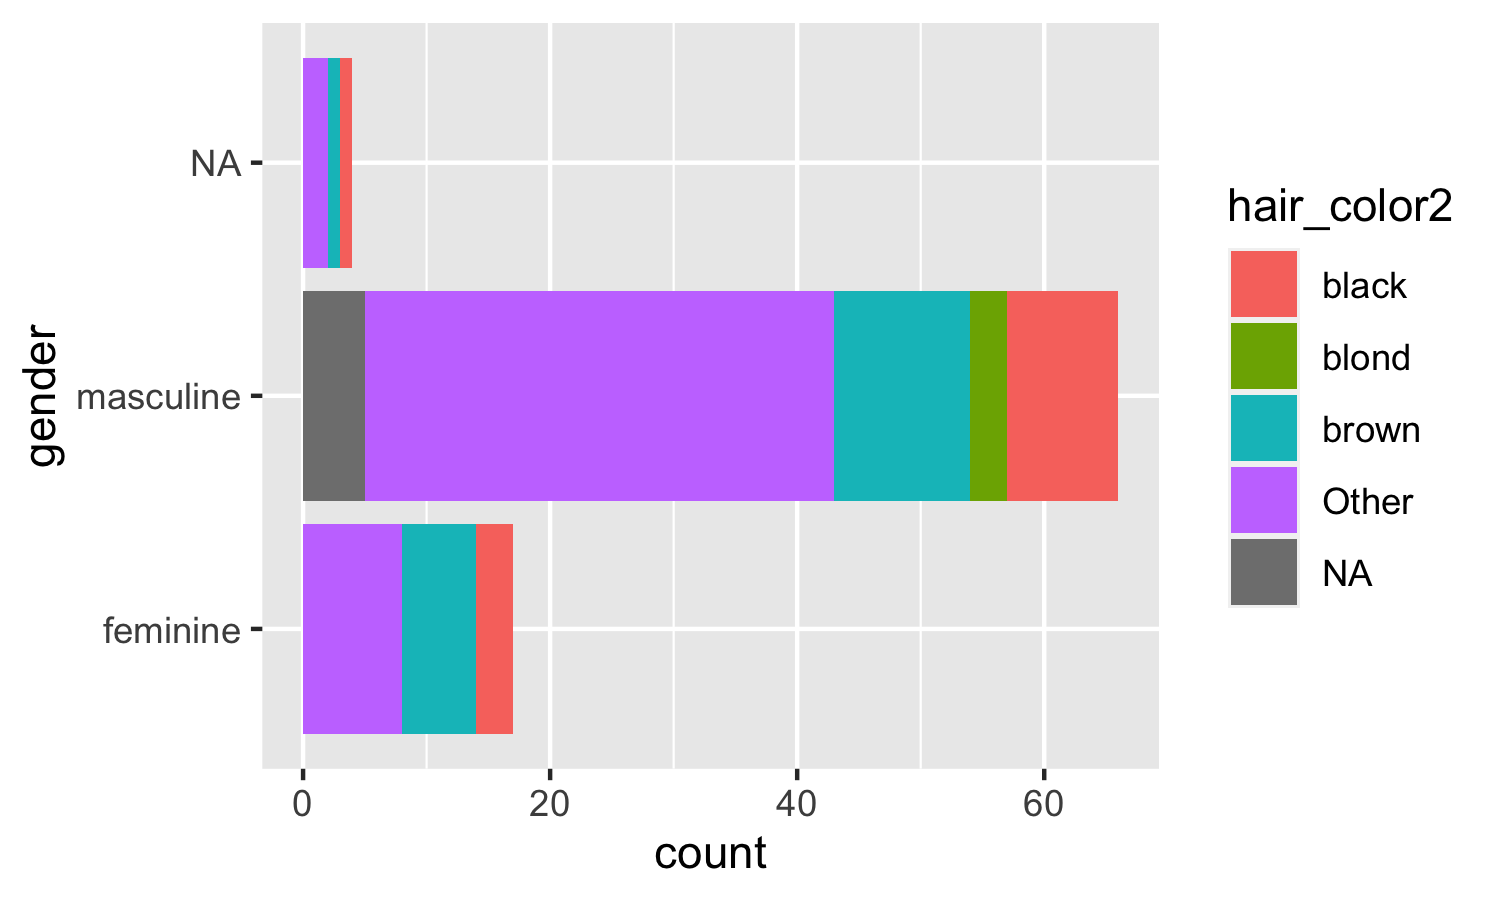
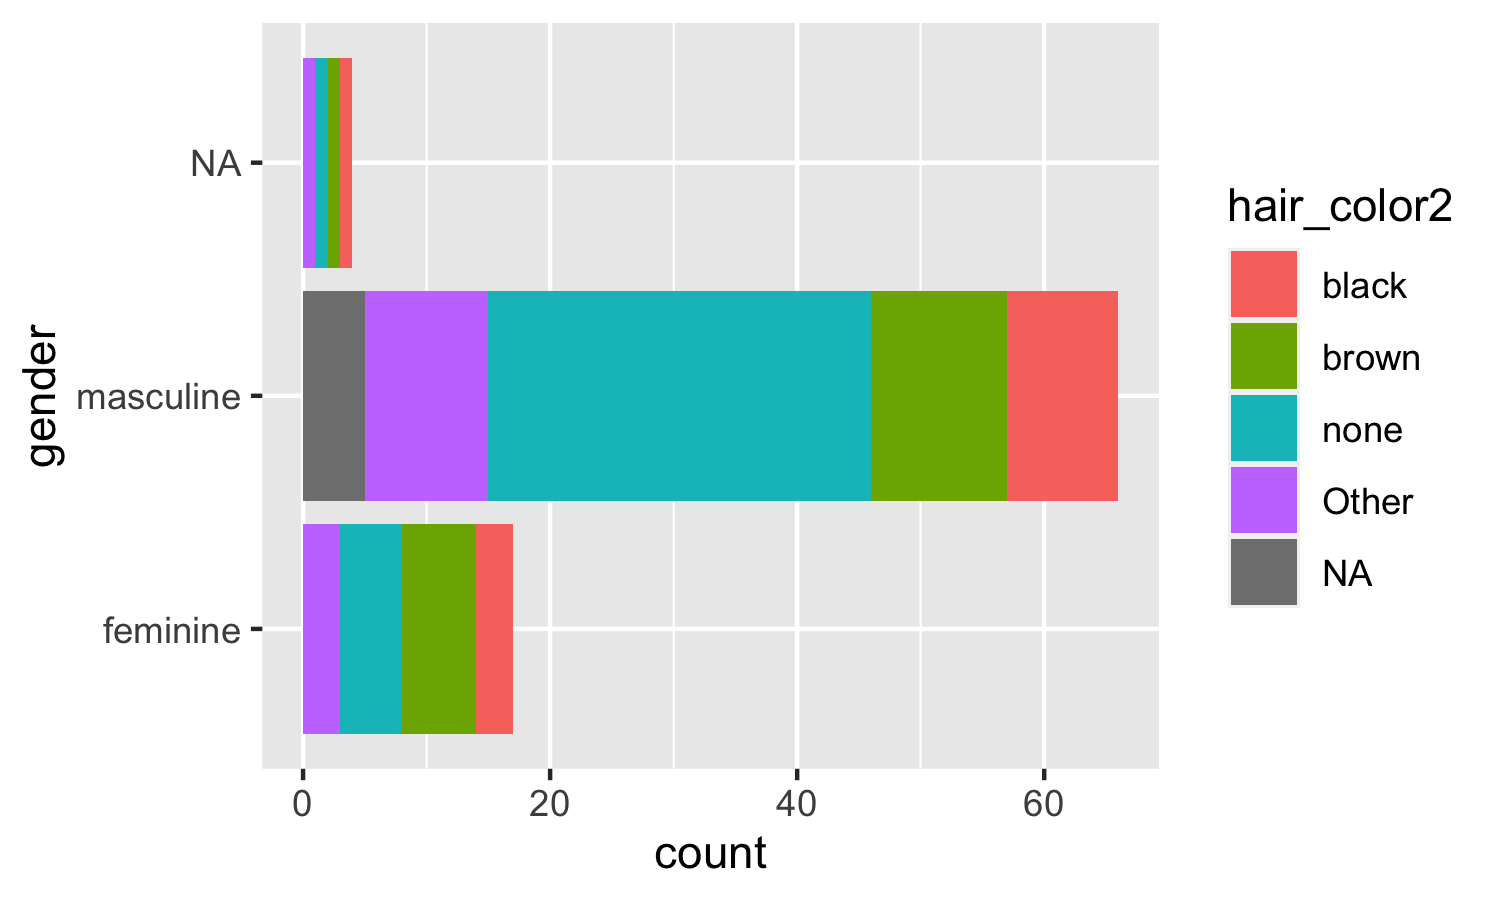
fct_lump_min

diff --git a/slides/02-visualize-data/02-visualize-data.html b/slides/02-visualize-data/02-visualize-data.html
@@ -166,7 +166,7 @@ class: middle
 
 
 ```
-## # A tibble: 87 x 14
+## # A tibble: 87 x 15
 ##    name  height  mass hair_color skin_color eye_color birth_year sex   gender homeworld
 ##    &lt;chr&gt;  &lt;int&gt; &lt;dbl&gt; &lt;chr&gt;      &lt;chr&gt;      &lt;chr&gt;          &lt;dbl&gt; &lt;chr&gt; &lt;chr&gt;  &lt;chr&gt;    
 ##  1 Luke…    172    77 blond      fair       blue            19   male  mascu… Tatooine 
@@ -179,8 +179,8 @@ class: middle
 ##  8 R5-D4     97    32 &lt;NA&gt;       white, red red             NA   none  mascu… Tatooine 
 ##  9 Bigg…    183    84 black      light      brown           24   male  mascu… Tatooine 
 ## 10 Obi-…    182    77 auburn, w… fair       blue-gray       57   male  mascu… Stewjon  
-## # … with 77 more rows, and 4 more variables: species &lt;chr&gt;, films &lt;list&gt;,
-## #   vehicles &lt;list&gt;, starships &lt;list&gt;
+## # … with 77 more rows, and 5 more variables: species &lt;chr&gt;, films &lt;list&gt;,
+## #   vehicles &lt;list&gt;, starships &lt;list&gt;, hair_color2 &lt;fct&gt;
 ```
 
 ---
@@ -200,21 +200,22 @@ glimpse(starwars)
 
 ```
 ## Rows: 87
-## Columns: 14
-## $ name       &lt;chr&gt; "Luke Skywalker", "C-3PO", "R2-D2", "Darth Vader", "Leia Organa", "O…
-## $ height     &lt;int&gt; 172, 167, 96, 202, 150, 178, 165, 97, 183, 182, 188, 180, 228, 180, …
-## $ mass       &lt;dbl&gt; 77.0, 75.0, 32.0, 136.0, 49.0, 120.0, 75.0, 32.0, 84.0, 77.0, 84.0, …
-## $ hair_color &lt;chr&gt; "blond", NA, NA, "none", "brown", "brown, grey", "brown", NA, "black…
-## $ skin_color &lt;chr&gt; "fair", "gold", "white, blue", "white", "light", "light", "light", "…
-## $ eye_color  &lt;chr&gt; "blue", "yellow", "red", "yellow", "brown", "blue", "blue", "red", "…
-## $ birth_year &lt;dbl&gt; 19.0, 112.0, 33.0, 41.9, 19.0, 52.0, 47.0, NA, 24.0, 57.0, 41.9, 64.…
-## $ sex        &lt;chr&gt; "male", "none", "none", "male", "female", "male", "female", "none", …
-## $ gender     &lt;chr&gt; "masculine", "masculine", "masculine", "masculine", "feminine", "mas…
-## $ homeworld  &lt;chr&gt; "Tatooine", "Tatooine", "Naboo", "Tatooine", "Alderaan", "Tatooine",…
-## $ species    &lt;chr&gt; "Human", "Droid", "Droid", "Human", "Human", "Human", "Human", "Droi…
-## $ films      &lt;list&gt; [&lt;"The Empire Strikes Back", "Revenge of the Sith", "Return of the …
-## $ vehicles   &lt;list&gt; [&lt;"Snowspeeder", "Imperial Speeder Bike"&gt;, &lt;&gt;, &lt;&gt;, &lt;&gt;, "Imperial Sp…
-## $ starships  &lt;list&gt; [&lt;"X-wing", "Imperial shuttle"&gt;, &lt;&gt;, &lt;&gt;, "TIE Advanced x1", &lt;&gt;, &lt;&gt;,…
+## Columns: 15
+## $ name        &lt;chr&gt; "Luke Skywalker", "C-3PO", "R2-D2", "Darth Vader", "Leia Organa", "…
+## $ height      &lt;int&gt; 172, 167, 96, 202, 150, 178, 165, 97, 183, 182, 188, 180, 228, 180,…
+## $ mass        &lt;dbl&gt; 77.0, 75.0, 32.0, 136.0, 49.0, 120.0, 75.0, 32.0, 84.0, 77.0, 84.0,…
+## $ hair_color  &lt;chr&gt; "blond", NA, NA, "none", "brown", "brown, grey", "brown", NA, "blac…
+## $ skin_color  &lt;chr&gt; "fair", "gold", "white, blue", "white", "light", "light", "light", …
+## $ eye_color   &lt;chr&gt; "blue", "yellow", "red", "yellow", "brown", "blue", "blue", "red", …
+## $ birth_year  &lt;dbl&gt; 19.0, 112.0, 33.0, 41.9, 19.0, 52.0, 47.0, NA, 24.0, 57.0, 41.9, 64…
+## $ sex         &lt;chr&gt; "male", "none", "none", "male", "female", "male", "female", "none",…
+## $ gender      &lt;chr&gt; "masculine", "masculine", "masculine", "masculine", "feminine", "ma…
+## $ homeworld   &lt;chr&gt; "Tatooine", "Tatooine", "Naboo", "Tatooine", "Alderaan", "Tatooine"…
+## $ species     &lt;chr&gt; "Human", "Droid", "Droid", "Human", "Human", "Human", "Human", "Dro…
+## $ films       &lt;list&gt; [&lt;"The Empire Strikes Back", "Revenge of the Sith", "Return of the…
+## $ vehicles    &lt;list&gt; [&lt;"Snowspeeder", "Imperial Speeder Bike"&gt;, &lt;&gt;, &lt;&gt;, &lt;&gt;, "Imperial S…
+## $ starships   &lt;list&gt; [&lt;"X-wing", "Imperial shuttle"&gt;, &lt;&gt;, &lt;&gt;, "TIE Advanced x1", &lt;&gt;, &lt;&gt;…
+## $ hair_color2 &lt;fct&gt; Other, NA, NA, none, brown, Other, brown, NA, black, Other, Other, …
 ```
 
 ---
@@ -243,10 +244,11 @@ skim(starwars)
 ##                            Values  
 ## Name                       starwars
 ## Number of rows             87      
-## Number of columns          14      
+## Number of columns          15      
 ## _______________________            
 ## Column type frequency:             
 ##   character                8       
+##   factor                   1       
 ##   list                     3       
 ##   numeric                  3       
 ## ________________________           
@@ -262,6 +264,10 @@ skim(starwars)
 ## 6 gender                4         0.954     8     9     0        2          0
 ## 7 homeworld            10         0.885     4    14     0       48          0
 ## 8 species               4         0.954     3    14     0       37          0
+## 
+## ── Variable type: factor ───────────────────────────────────────────────────────────────────────────────────────────────
+##   skim_variable n_missing complete_rate ordered n_unique top_counts                        
+## 1 hair_color2           5         0.943 FALSE          4 non: 37, bro: 18, Oth: 14, bla: 13
 ## 
 ## ── Variable type: list ─────────────────────────────────────────────────────────────────────────────────────────────────
 ##   skim_variable n_missing complete_rate n_unique min_length max_length
@@ -319,7 +325,7 @@ ggplot(data = starwars, mapping = aes(x = height, y = mass)) +
 - But, a mini R Markdown review before you get started!
 ]
 
-<div class="countdown" id="timer_5e8cd60c" style="right:0;bottom:0;" data-warnwhen="0">
+<div class="countdown" id="timer_5e8cf55e" style="right:0;bottom:0;" data-warnwhen="0">
 <code class="countdown-time"><span class="countdown-digits minutes">05</span><span class="countdown-digits colon">:</span><span class="countdown-digits seconds">00</span></code>
 </div>
 
@@ -518,7 +524,7 @@ Look through the next three slides titled Facet 1, 2, and 3 describe what each p
 **Note:** The plots in the next few slides do not have proper titles, axis labels, etc. because we want you to figure out what's happening in the plots. But you should always label your plots!
 ]
 
-<div class="countdown" id="timer_5e8cd8e2" style="right:0;bottom:0;" data-warnwhen="0">
+<div class="countdown" id="timer_5e8cf4b1" style="right:0;bottom:0;" data-warnwhen="0">
 <code class="countdown-time"><span class="countdown-digits minutes">03</span><span class="countdown-digits colon">:</span><span class="countdown-digits seconds">00</span></code>
 </div>
 
@@ -763,8 +769,7 @@ Using the `fct_other()` function from the **forcats** package, which is also par
 ```r
 starwars &lt;- starwars %&gt;%
   mutate(
-    hair_color2 = fct_other(hair_color,
-                            keep = c("black", "brown", "brown", "blond"))
+    hair_color2 = fct_lump_min(hair_color, min = 10)
   )
 ```
 
@@ -775,9 +780,8 @@ starwars &lt;- starwars %&gt;%
 
 ```r
 ggplot(data = starwars, 
-       mapping = aes(x = gender, fill = hair_color2)) +
-  geom_bar() +
-  coord_flip()
+       mapping = aes(y = gender, fill = hair_color2)) +
+  geom_bar()
 ```
 
 &lt;img src="02-visualize-data_files/figure-html/unnamed-chunk-45-1.png" width="65%" /&gt;
@@ -817,7 +821,7 @@ Which bar plot is a more useful representation for visualizing the relationship 
 - Knit the document
 ]
 
-<div class="countdown" id="timer_5e8cd799" style="right:0;bottom:0;" data-warnwhen="0">
+<div class="countdown" id="timer_5e8cf4aa" style="right:0;bottom:0;" data-warnwhen="0">
 <code class="countdown-time"><span class="countdown-digits minutes">05</span><span class="countdown-digits colon">:</span><span class="countdown-digits seconds">00</span></code>
 </div>
 
